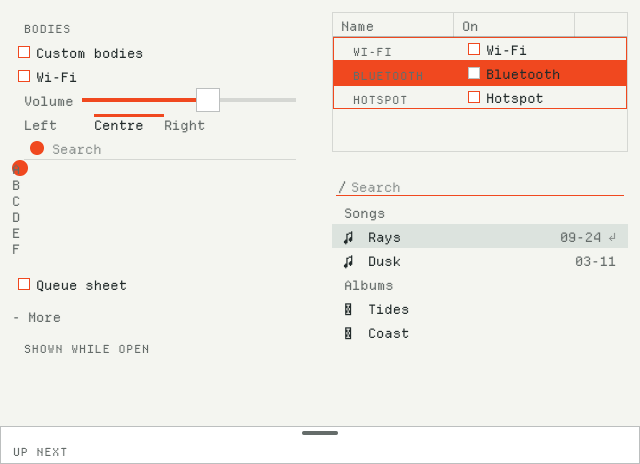
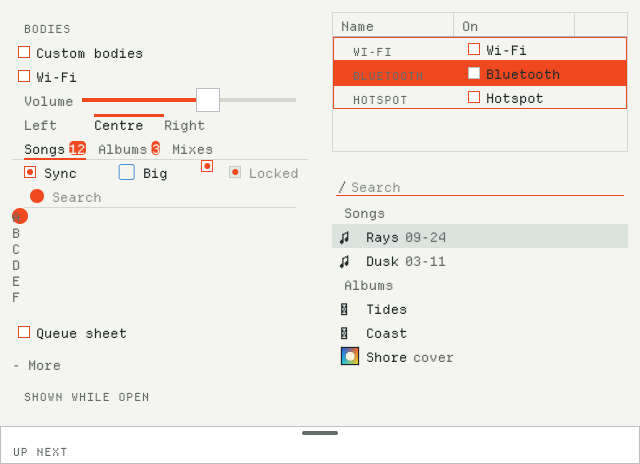
[U2a.2/3/4 fix] Bodies page: tabs with detail, the checkbox, picker image art
Gallery entries and registered body overrides for the U2a widgets the review found uncovered
(tabs.body = counted, checkbox.body = dotted, picker.body = covers in THEME_LINES):
- tabs with Segment::detail (Songs 12, Albums 3, Mixes); the counted body draws the detail in an
  accent pill (U2a.2).
- the checkbox itself: plain, size(16) with its own look, passive with no text, disabled; the
  dotted body uses box_size, the caller's or theme's looks and passive, and marks on with a dot (U2a.3).
- a picker image row (PickArt::Image) beside the glyph rows and headings; the covers body draws the
  glyph, or for an image the app's image (BodiesPage::art: the golden test's 40x40 test card, the
  window's card; an accent tile while none) (U2a.4).
Goldens: only gallery_bodies_{rays,dusk}_{1,2}x.png regenerated (new content); every other gallery
golden max channel difference 0; the bodies goldens match at 0 in both link modes. Bodies page warm
frames allocate nothing with custom bodies on and off (image art set).
cargo t -p pxui_gallery (17) and --no-default-features (16) pass; gates deps, shape pass.

diff --git a/tools/pxui_gallery/src/bodies_page.rs b/tools/pxui_gallery/src/bodies_page.rs
@@ -1,18 +1,21 @@
-//! The Bodies page: eight widget bodies written against the public wrapper (`Ui::register_*_body`, `Ui::part`, `Ui::slot`) and picked by
+//! The Bodies page: eleven widget bodies written against the public wrapper (`Ui::register_*_body`, `Ui::part`, `Ui::slot`) and picked by
 //! a theme text (`THEME_LINES`: `toggle.body = checkbox`, ...). A checkbox-style toggle, a slider with a round thumb, a segmented control
 //! whose marker slides, a table whose rows are ruled and whose cells hold widgets, a search field with an icon and a clear button, and a
 //! section index whose letters are pills, the active one filled, a disclosure whose header is its text after a + or - sign, and a modal sheet with a grab handle when it is a bottom or full sheet.
-//! It also shows a picker whose rows have group headings and glyph art.
+//! It also shows tabs whose detail (a count) is a pill, checkboxes (plain, sized with the caller's look, passive and disabled) whose box
+//! marks on with a dot, and a picker whose rows have group headings and glyph or image art drawn by a cover body (`PickArt::Image`: the
+//! image the host gives `BodiesPage::art`, an accent tile until it does).
 //! The page itself is plain widget calls: with the bodies not selected it draws the built-in widgets, with them the proof bodies.
 //! Not in `PAGES`: it needs the wrapper (the pages there also compile against the engine for the A7 bench).
-use pxui::bodies::{BodyConfig, InspectorSectionConfig, ModalConfig, SearchFieldConfig, SectionIndexConfig, SegmentedConfig, SliderConfig, ToggleConfig, TableRowConfig};
+use pxui::bodies::{BodyConfig, CheckboxConfig, InspectorSectionConfig, ModalConfig, PickerConfig, SearchFieldConfig, SectionIndexConfig, SegmentedConfig, SliderConfig, TabsConfig, ToggleConfig, TableRowConfig};
 use pxui::theme::{Look, State};
-use pxui::{Overlay, Part, SearchField, Ui};
+use pxui::{Image, ImageStyle, Overlay, Part, SearchField, Ui};
+use std::cell::Cell;
 use pxui_types::Flags;
 use pxui_types::{ffi::PxuiStateDesc, geom::Edges, layout::Align, Axis, Node, Size};
 
 /// The theme lines that select the proof bodies, on top of any base theme text.
-pub const THEME_LINES: &str = "toggle.body = checkbox\nslider.body = round\nsegmented.body = sliding\ntable_row.body = ruled\nsearch_field.body = boxed\nsection_index.body = pills\ninspector_section.body = signed\nmodal.body = handle\n";
+pub const THEME_LINES: &str = "toggle.body = checkbox\nslider.body = round\nsegmented.body = sliding\ntable_row.body = ruled\nsearch_field.body = boxed\nsection_index.body = pills\ninspector_section.body = signed\nmodal.body = handle\ntabs.body = counted\ncheckbox.body = dotted\npicker.body = covers\n";
 
 /// The page's state.
 pub struct BodiesPage {
@@ -31,11 +34,16 @@ pub struct BodiesPage {
     pub more: bool,
     /// the bottom sheet is open
     pub sheet: bool,
+    pub tab: usize,
+    pub sync: bool,
+    pub big: bool,
+    /// the image the cover body draws for a `PickArt::Image` row (the host's; an accent tile while `None`)
+    pub art: Option<Image>,
 }
 
 impl BodiesPage {
     pub fn new(custom: bool) -> BodiesPage {
-        BodiesPage { custom, dirty: false, wifi: true, volume: 0.6, align: 1, query: String::new(), widths: [120.0, 120.0], selected: Some(1), flags: [true, false, true], letter: 0, more: true, sheet: true }
+        BodiesPage { custom, dirty: false, wifi: true, volume: 0.6, align: 1, query: String::new(), widths: [120.0, 120.0], selected: Some(1), flags: [true, false, true], letter: 0, more: true, sheet: true, tab: 0, sync: true, big: false, art: None }
     }
 
     /// The theme text the host applies (`Ui::set_theme`): `base` (a theme file's text, or none), then the body lines when `custom`.
@@ -156,6 +164,80 @@ fn handle_sheet(ui: &mut Ui, c: &ModalConfig) {
     ui.slot(c.content);
 }
 
+/// A tab whose detail (a count) follows its text in an accent pill.
+fn counted_tab(ui: &mut Ui, c: &TabsConfig) {
+    let state = state_of(&c.state);
+    let (look, accent, panel) = { let t = ui.theme(); (*t.tab.pick(state), t.tokens.accent, t.tokens.panel) };
+    let mut node = ui.node_layout(&c.node);
+    (node.w, node.axis, node.align, node.gap) = (Size::Fit, Axis::Row, Align::Center, 4.0);
+    ui.set_node_layout(&c.node, &node);
+    ui.style(&c.node, &pxui::theme::States::of(look), state);
+    ui.within(&c.node, &mut |ui: &mut Ui| {
+        let text = ui.node("text", Node { w: Size::Fit, h: Size::Px(16.0), look: Look { text: look.text, font: look.font, ..Look::NONE }, ..Node::DEFAULT });
+        ui.text(&text, c.text_of(&c.text));
+        let detail = c.text_of(&c.detail);
+        if !detail.is_empty() {
+            let pill = ui.node("detail", Node { w: Size::Fit, h: Size::Px(14.0), padding: Edges { l: 4.0, r: 4.0, ..Edges::ZERO }, look: Look { fill: accent, text: panel, radius: [4.0; 4], ..Look::NONE }, ..Node::DEFAULT });
+            ui.text(&pill, detail);
+        }
+    });
+}
+
+/// A checkbox whose box (the caller's side and looks, or the theme's) marks on with a round dot; a passive one with no text is the box alone.
+fn dotted_checkbox(ui: &mut Ui, c: &CheckboxConfig) {
+    let state = state_of(&c.state);
+    let (themed, text, accent) = { let t = ui.theme(); (t.checkbox, t.toggle.pick(state).text, t.tokens.accent) };
+    let states = c.states_of(&c.states).copied().unwrap_or(themed);
+    let side = c.box_size;
+    let b = ui.node("box", Node { w: Size::Px(side), h: Size::Px(side), axis: Axis::Row, justify: pxui_types::layout::Justify::Center, align: Align::Center, ..Node::DEFAULT });
+    ui.style(&b, &states, State { checked: c.on != 0, ..state });
+    if c.on != 0 {
+        let dot = Node { w: Size::Px(side / 2.0), h: Size::Px(side / 2.0), look: Look { fill: accent, radius: [side / 4.0; 4], ..Look::NONE }, ..Node::DEFAULT };
+        ui.within(&b, &mut |ui: &mut Ui| { ui.node("dot", dot); });
+    }
+    let label = c.text_of(&c.label);
+    if !(c.passive != 0 && label.is_empty()) {
+        let n = ui.node("label", Node { w: Size::Fit, h: Size::Px(16.0), look: Look { text, ..Look::NONE }, ..Node::DEFAULT });
+        ui.text(&n, label);
+    }
+}
+
+thread_local! {
+    /// The image `page` was given (`BodiesPage::art`), which the cover body draws for an image row: a body is a plain `fn`, so the app's
+    /// image cache is where it looks its art up.
+    static COVER: Cell<Option<Image>> = const { Cell::new(None) };
+}
+
+/// A picker row whose art is a 20-point cover (`PickArt::Image`: the app's image for the id, an accent tile until there is one) or its
+/// glyph, then its label and, at the end, its detail; the engine draws the group headings above it.
+fn cover_row(ui: &mut Ui, c: &PickerConfig) {
+    let state = state_of(&c.state);
+    let (look, hint, accent) = { let t = ui.theme(); (*t.list.pick(state), t.hint.idle.text, t.tokens.accent) };
+    ui.style(&c.row, &pxui::theme::States::of(look), state);
+    let mut row = ui.node_layout(&c.row);
+    (row.axis, row.align, row.gap, row.padding) = (Axis::Row, Align::Center, 6.0, Edges { l: 8.0, r: 8.0, ..Edges::ZERO });
+    ui.set_node_layout(&c.row, &row);
+    const COVER_STYLE: ImageStyle = ImageStyle::DEFAULT.w_px(20.0).h_px(20.0).fit(pxui::draw::Fit::Cover);
+    let tile = Node { w: Size::Px(20.0), h: Size::Px(20.0), look: Look { fill: accent, radius: [3.0; 4], ..Look::NONE }, ..Node::DEFAULT };
+    match (c.art_kind, COVER.with(Cell::get)) {
+        (2, Some(image)) => { let _ = ui.image("art", c.text_of(&c.label), &image, &COVER_STYLE); }
+        (2, None) => { ui.node("art", tile); }
+        (1, _) => {
+            let mut buf = [0u8; 4];
+            let glyph = ui.node("art", Node { w: Size::Px(20.0), h: Size::Px(20.0), look: Look { text: look.text, ..Look::NONE }, ..Node::DEFAULT });
+            ui.text(&glyph, char::from_u32(c.art as u32).unwrap_or(' ').encode_utf8(&mut buf));
+        }
+        _ => (),
+    }
+    let label = ui.node("label", Node { w: Size::Fit, h: Size::Px(16.0), grow: 1.0, look: Look { text: look.text, font: look.font, ..Look::NONE }, ..Node::DEFAULT });
+    ui.text(&label, c.text_of(&c.label));
+    let detail = c.text_of(&c.detail);
+    if !detail.is_empty() {
+        let n = ui.node("detail", Node { w: Size::Fit, h: Size::Px(16.0), look: Look { text: hint, ..Look::NONE }, ..Node::DEFAULT });
+        ui.text(&n, detail);
+    }
+}
+
 /// Registers the proof bodies; `THEME_LINES` selects them. Once, before the theme that names them is applied.
 pub fn register(ui: &mut Ui) -> Result<(), pxui::Error> {
     ui.register_toggle_body("checkbox", checkbox_toggle)?;
@@ -166,20 +248,28 @@ pub fn register(ui: &mut Ui) -> Result<(), pxui::Error> {
     ui.register_section_index_body("pills", pill_index)?;
     ui.register_inspector_section_body("signed", signed_section)?;
     ui.register_modal_body("handle", handle_sheet)?;
+    ui.register_tabs_body("counted", counted_tab)?;
+    ui.register_checkbox_body("dotted", dotted_checkbox)?;
+    ui.register_picker_body("covers", cover_row)?;
     Ok(())
 }
 
 const NAMES: [&str; 3] = ["Wi-Fi", "Bluetooth", "Hotspot"];
 const LETTERS: [&str; 6] = ["A", "B", "C", "D", "E", "F"];
-const PICKS: [pxui::PickRow; 4] = [
+const TABS: [pxui::Segment; 3] = [pxui::Segment::new("Songs").detail("12"), pxui::Segment::new("Albums").detail("3"), pxui::Segment::new("Mixes")];
+/// The checkbox's own look (`Checkbox::look`): an accent outline in every state.
+const BOX_LOOK: pxui::theme::States = pxui::theme::States::of(Look { border: pxui_types::geom::Rgba::rgba(0x4a, 0x90, 0xd9, 255), border_w: 1.0, radius: [3.0; 4], ..Look::NONE });
+const PICKS: [pxui::PickRow; 5] = [
     pxui::PickRow::new("Rays").detail("09-24").art(pxui::PickArt::Glyph('\u{266b}')).heading("Songs"),
     pxui::PickRow::new("Dusk").detail("03-11").art(pxui::PickArt::Glyph('\u{266b}')),
     pxui::PickRow::new("Tides").art(pxui::PickArt::Glyph('\u{25a3}')).heading("Albums"),
     pxui::PickRow::new("Coast").art(pxui::PickArt::Glyph('\u{25a3}')),
+    pxui::PickRow::new("Shore").detail("cover").art(pxui::PickArt::Image(1)),
 ];
 
 /// The page: the widgets the proof bodies replace, as plain calls.
 pub fn page(ui: &mut Ui, s: &mut BodiesPage) {
+    COVER.with(|cover| cover.set(s.art));
     ui.panel("bodies", &Overlay::DEFAULT.w_px(296.0), &mut |ui: &mut Ui| {
         ui.label("Bodies", pxui::Label::DEFAULT);
         let custom = ui.toggle("custom", "Custom bodies", s.custom, &pxui::Toggle::DEFAULT).changed != s.custom;
@@ -187,6 +277,14 @@ pub fn page(ui: &mut Ui, s: &mut BodiesPage) {
         s.wifi = ui.toggle("wifi", "Wi-Fi", s.wifi, &pxui::Toggle::DEFAULT).changed != s.wifi;
         s.volume = ui.slider("volume", "Volume", s.volume, 0.0..=1.0, &pxui::Slider::DEFAULT).value;
         s.align = ui.segmented("align", &[pxui::Segment::new("Left"), pxui::Segment::new("Centre"), pxui::Segment::new("Right")], Some(s.align), &pxui::Segmented::DEFAULT.name("Align")).chosen.unwrap_or(s.align);
+        s.tab = ui.tabs("views", &TABS, Some(s.tab), &pxui::Tabs::DEFAULT.name("Views")).chosen.unwrap_or(s.tab);
+        let boxes = ui.node("boxes", Node { h: Size::Fit, axis: Axis::Row, gap: 4.0, ..Node::DEFAULT });
+        ui.within(&boxes, &mut |ui: &mut Ui| {
+            s.sync = s.sync != ui.checkbox("sync", "Sync", s.sync, &pxui::Checkbox::DEFAULT).clicked;
+            s.big = s.big != ui.checkbox("big", "Big", s.big, &pxui::Checkbox::DEFAULT.size(16.0).look(&BOX_LOOK)).clicked;
+            ui.checkbox("seen", "", true, &pxui::Checkbox::DEFAULT.passive(true));
+            ui.checkbox("locked", "Locked", true, &pxui::Checkbox::DEFAULT.disabled(true));
+        });
         if let Some(v) = ui.search_field("find", &s.query, &SearchField::DEFAULT.icon("?").placeholder("Search").name("Find")).changed { s.query = v.to_owned(); }
         let strip = ui.node("letters", Node { h: Size::Px(112.0), axis: Axis::Row, ..Node::DEFAULT });
         ui.within(&strip, &mut |ui: &mut Ui| { s.letter = ui.section_index("index", &LETTERS, &pxui::SectionIndex::DEFAULT.name("Jump to")).chosen.unwrap_or(s.letter); });

diff --git a/tools/pxui_gallery/tests/gpu_gallery.rs b/tools/pxui_gallery/tests/gpu_gallery.rs
@@ -133,9 +133,11 @@ fn gpu_gallery_pages() {
 fn gpu_gallery_bodies() {
     let mut gpu = Gpu::open().expect("a GPU backend");
     let register = &mut |ui: &mut Ui| bodies_page::register(ui).expect("the proof bodies register");
+    // the cover the picker's image row draws through the cover body
+    let art = Some(gpu.image(40, 40, &gpu::test_card(40, 40)));
     for (name, base) in [("rays", ""), ("dusk", DUSK)] {
         for density in [1, 2] {
-            let mut page = BodiesPage::new(true);
+            let mut page = BodiesPage { art, ..BodiesPage::new(true) };
             let text = page.theme_text(base);
             let pixels = shoot_setup(&mut gpu, &theme(&text), false, (PAGE_W, PAGE_H), density, None, register, true, &mut |ui: &mut Ui| bodies_page::page(ui, &mut page));
             let path = format!("{}/fixtures/gallery_bodies_{name}_{density}x.png", env!("CARGO_MANIFEST_DIR"));
@@ -143,7 +145,7 @@ fn gpu_gallery_bodies() {
             println!("PXUI gallery bodies {name} {density}x: max channel difference {worst}");
             assert!(worst <= 2, "the Bodies page under {name} at {density}x drifted: largest channel difference {worst}");
             if density == 1 {
-                let mut plain = BodiesPage::new(false);
+                let mut plain = BodiesPage { art, ..BodiesPage::new(false) };
                 let text = plain.theme_text(base);
                 let other = shoot_setup(&mut gpu, &theme(&text), false, (PAGE_W, PAGE_H), density, None, register, true, &mut |ui: &mut Ui| bodies_page::page(ui, &mut plain));
                 assert!(compare(&path, (PAGE_W, PAGE_H), density, &other, false) > 2, "the Bodies page under {name} draws the same with the bodies not selected");
@@ -159,7 +161,9 @@ fn bodies_page_settled() {
     let events = [pointer_event()];
     let mut built = Vec::new();
     for custom in [false, true] {
-        let mut page = BodiesPage::new(custom);
+        // an image the cover body draws (never rendered here)
+        let art = pxui::Image { mtl_texture: std::ptr::dangling_mut(), width: 8, height: 8, format: pxui::Image::FORMAT_RGBA8, ..Default::default() };
+        let mut page = BodiesPage { art: Some(art), ..BodiesPage::new(custom) };
         let mut ui = Ui::new(&pxui::UiDesc::new(pxui::Platform::Apple).fonts(&[pxui::FontData(DEPARTURE_MONO)])).expect("pxui Ui");
         bodies_page::register(&mut ui).expect("the proof bodies register");
         let text = page.theme_text("");

diff --git a/tools/pxui_gallery/src/main.rs b/tools/pxui_gallery/src/main.rs
@@ -182,6 +182,7 @@ fn main() {
     }
     let mut renderer = gpu.renderer(&ui).unwrap_or_else(|e| { eprintln!("pxui_gallery: {e}"); std::process::exit(1) });
     s.image = Some(gpu.image(100, 60, &gpu::test_card(100, 60)));
+    bodies.art = s.image;
     let mut extent = win.extent();
     let mut target = gpu.target(extent.drawable.0 as u32, extent.drawable.1 as u32);
     let mut a11y = host::a11y(&mut win);
@@ -349,7 +350,7 @@ fn main() {
     }
     if let Some(at) = calls_at_settle { calls_idle = ui.library_calls() - at; }
     if count { println!("pxui_gallery: frames {frames} draws {draws} settled {settled} idle_calls {calls_idle}"); }
-    s.image = None;
+    (s.image, bodies.art) = (None, None);
     drop(renderer);
     be::destroy_texture(&target).unwrap_or_else(|e| fail(e));
     if let Some(surface) = surface { be::destroy_surface(&surface).unwrap_or_else(|e| fail(e)); }
